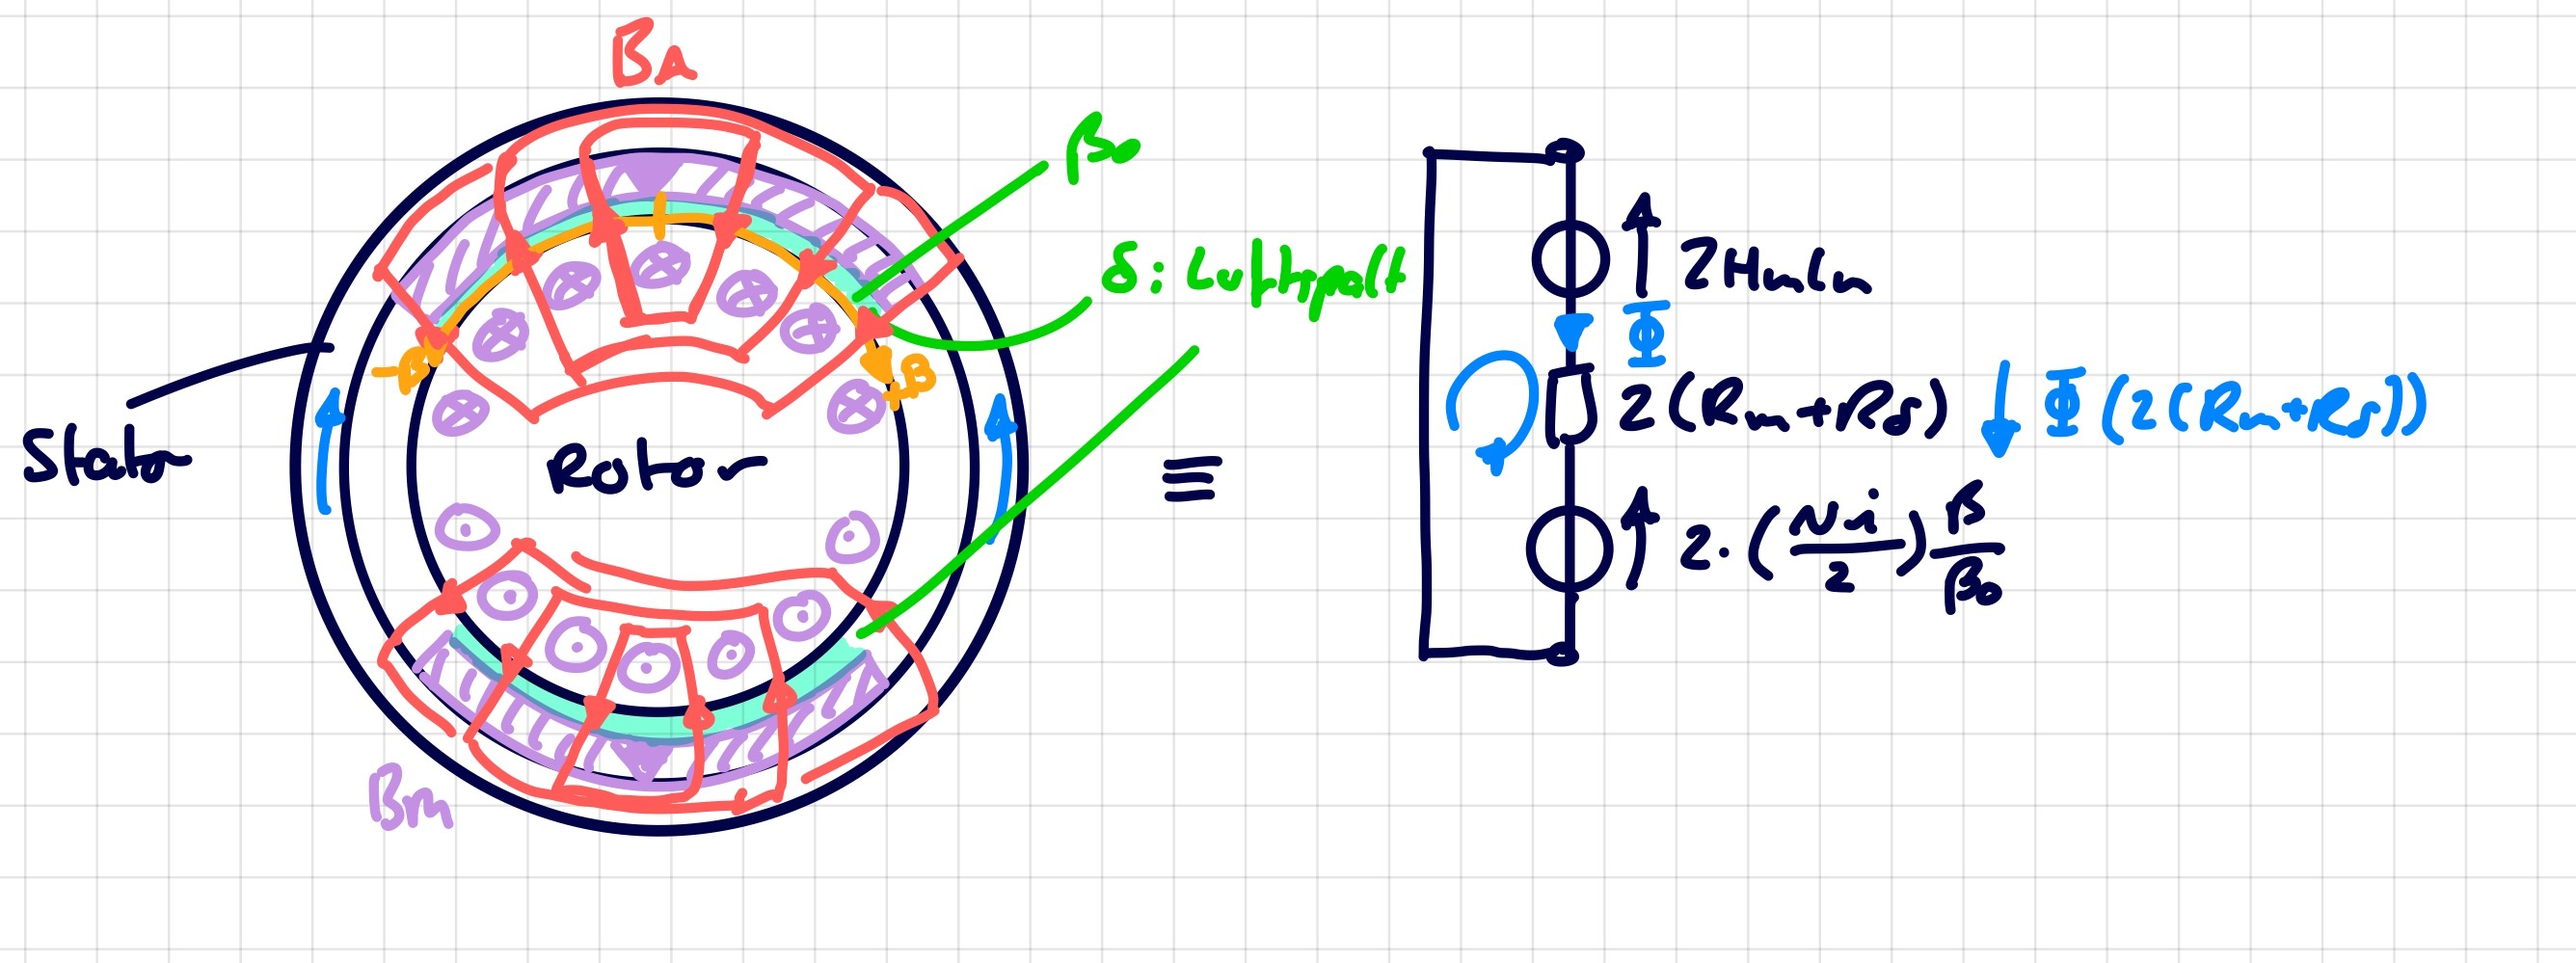
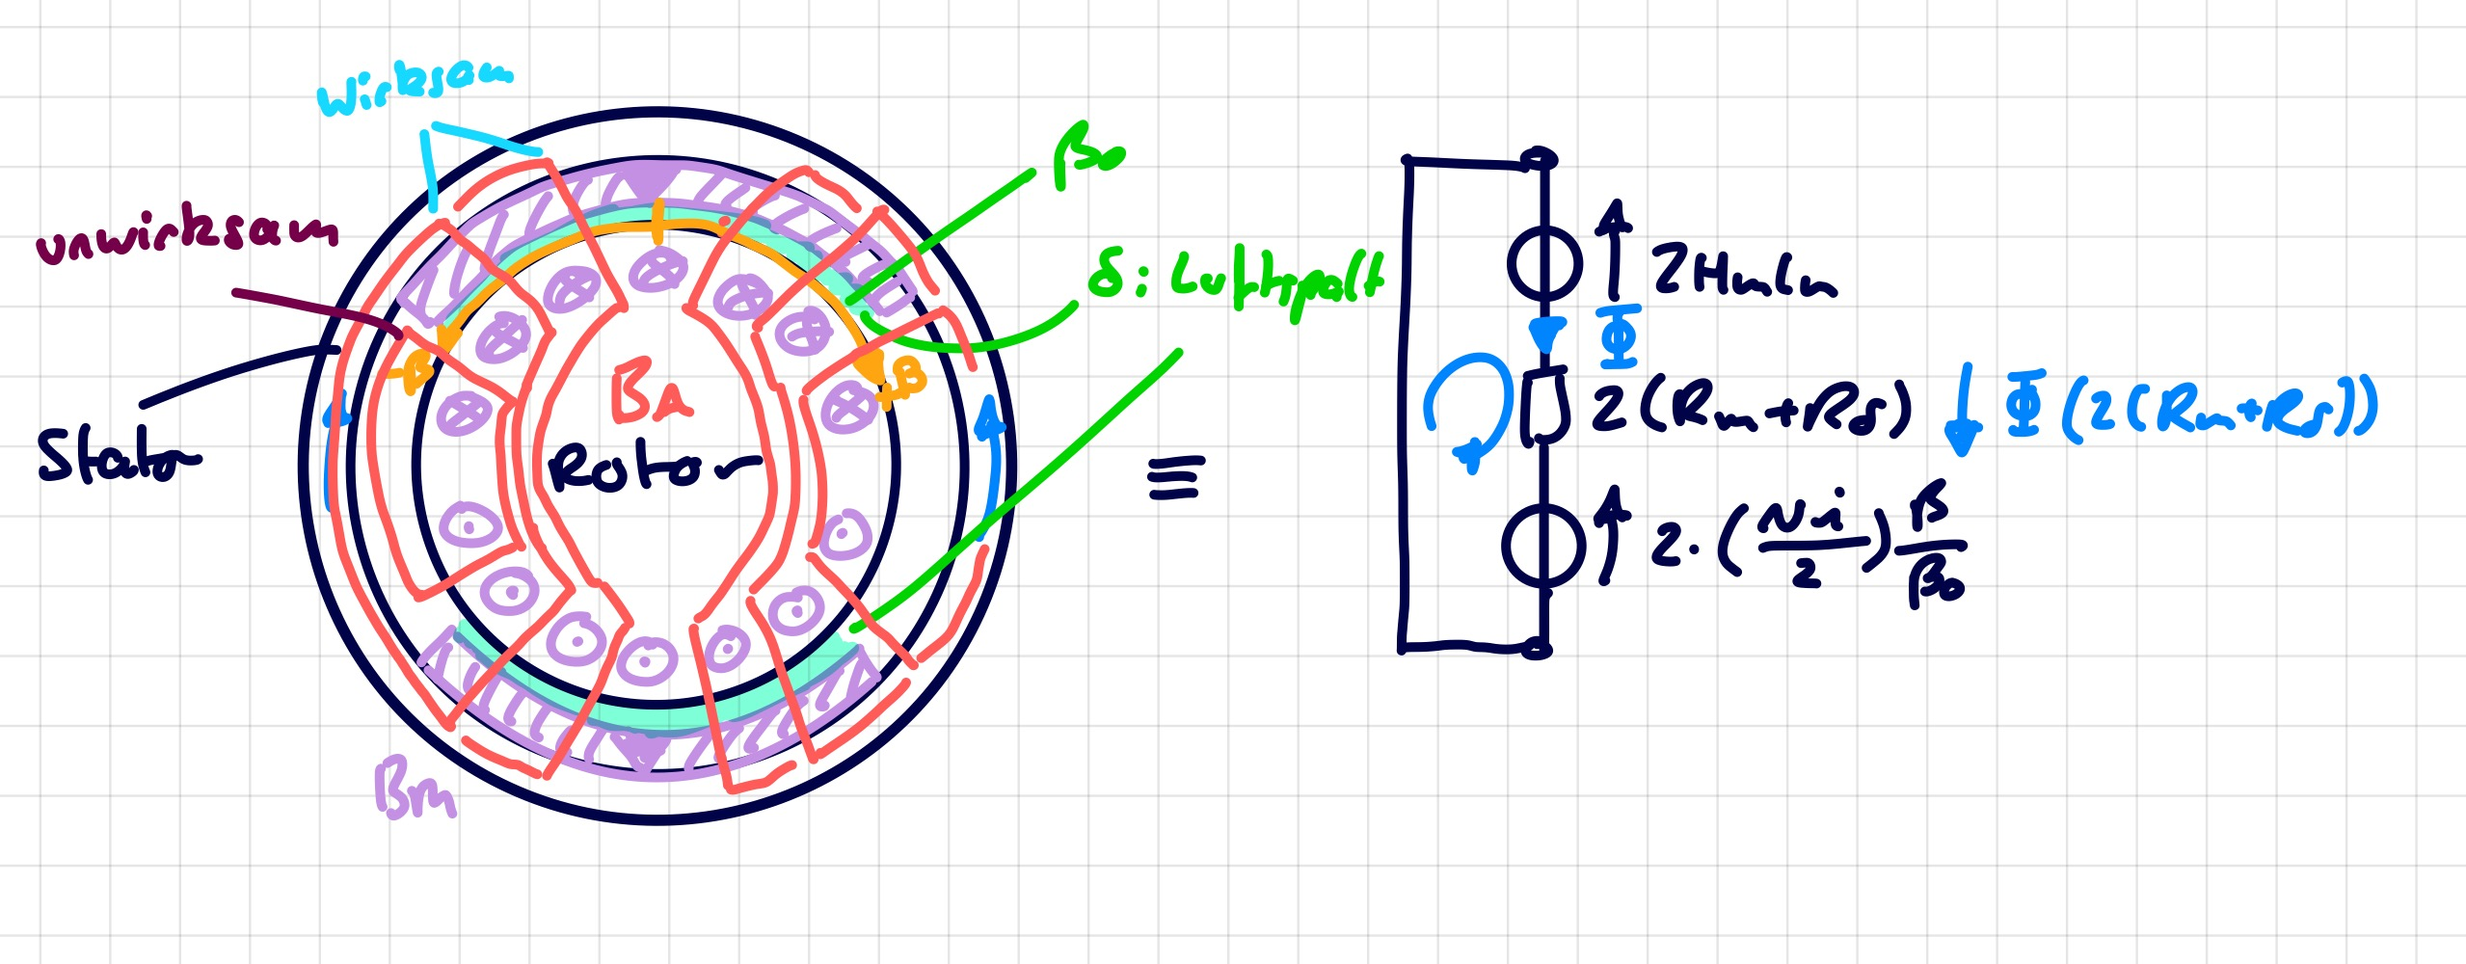
vault backup: 2025-05-11 19:25:03 from PC-Simon

diff --git a/Physik/Permanentmagnet.md b/Physik/Permanentmagnet.md
@@ -89,10 +89,12 @@ Beispiel einer Gleichstrommaschine bei der Ankerrückwirkungen, also die Indukti
 $$
 B_{A} = \frac{Ni}{2} \cdot \frac{\beta(\varphi)}{\beta_{0}} \cdot \frac{\mu_{0}}{\frac{l_{\mathrm{m}}}{\mu_{\mathrm{m}}}+\frac{A_{\mathrm{m}}}{A_{\mathrm{\delta}}l_{\delta}}}
 $$
-> [!hint]- Herleitung
-> 
 
 $\frac{\beta(\varphi)}{\beta}$ ist dabei ein Verhältnis das die tatsächliche Wirkung des Ankerfeldes beschreibt, da sich abhängig vom Winkel $\varphi$ die Überlappung der wirksamen Flächen verändert.
+
+> [!hint]- Herleitung
+> ![Herleitung 3](#Herleitung%203)
+
 
 > [!important] **PM-Arbeitsgerade** 
 > 
@@ -161,3 +163,18 @@ $$
 ## Herleitung 3
 
 ![invert_dark](assets/GSM-ArbeitsKL-2.jpg)
+
+Bei der alleinigen Berechnung des Ankerfeldanteils gilt der Permanentmagent als Abgeschaltet:
+
+$$ H_{\mathrm{m}}l_{\mathrm{m}} = 0 $$
+
+Durch die Masche ergibt sich die Gleichung.
+
+$$
+\cancel{2}\Phi (\mathfrak{R}_{\mathrm{m}}+\mathfrak{R}_{\delta})-\cancel{2}\frac{Ni}{2} \frac{\beta(\varphi)}{\beta_{0}} = 0
+$$
+
+Es wird jener Fluss durch den Permanentmagenten $\Phi = B_{\mathrm{m}}A_{\mathrm{m}}$ eingesetzt, und die Reluktanzen in ihre G
+$$
+B_{\mathrm{m}}A_{\mathrm{m}} \frac{l_{\mathrm{m}}}{\mu_{0}\mu_{\mathrm{m}}A_{\mathrm{m}}}
+$$
